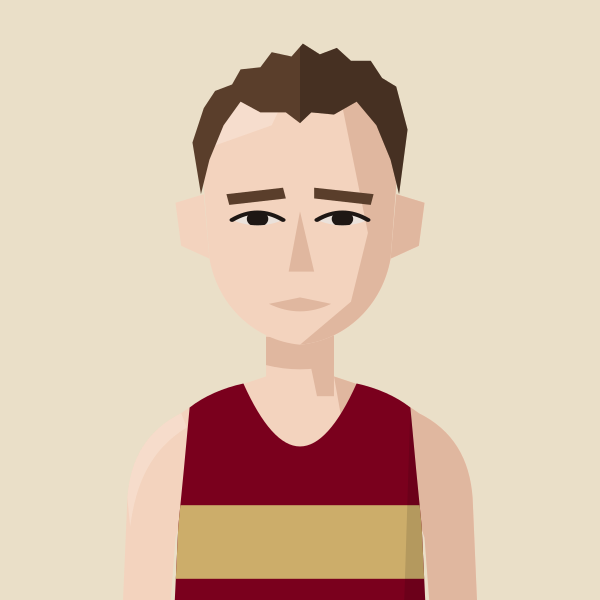
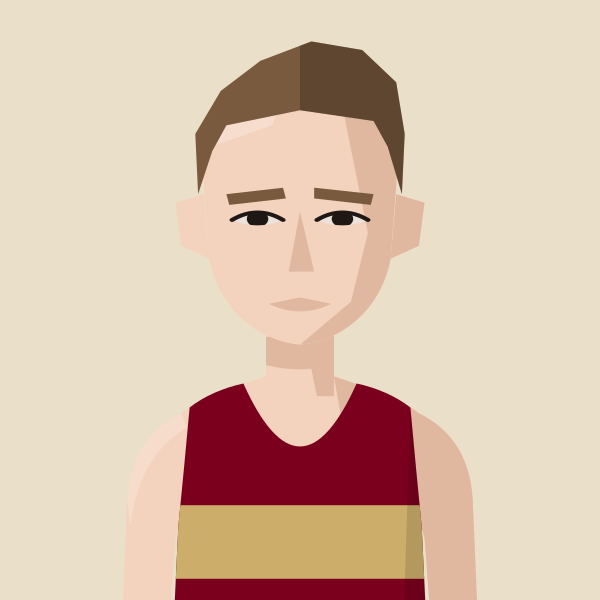
Slimmer rank pills on profiles; Max Heyden quiff, lighter hair
Claude-Session: https://claude.ai/code/session_01MgmDWhFqnSSnP4iBLKXUZC

Changed region(s): [[0.3, 0.06, 0.69, 0.33], [0.51, 0.3, 0.63, 0.36], [0.36, 0.3, 0.48, 0.36]]

diff --git a/files/index.html b/files/index.html
@@ -583,7 +583,7 @@ return m;})();
 const portraitFile=(name,club)=>{const k=normalizeNameForCompare(name||'').replace(/\s*\(([^)]*)\)$/,(m,c)=>CLUBS[c.toUpperCase()]?'':m);const a=PORTRAITS[k];if(a&&a.club===club)return a.file;const b=PORTRAITS[k+'@'+club];return b?b.file:null;};
 // Athlete header figure: superstar portrait if we have one, else a grey runner in the club vest, else the plain vest icon
 // Changes whenever any portrait changes (set by tools/build_og.py), so browsers fetch fresh images instead of old cached ones
-const PORTRAIT_V='1e7bae89';
+const PORTRAIT_V='191defdc';
 const AthletePortrait=({name,club,w,fill,onClick})=>{const[failed,setFailed]=useState(false);const file=portraitFile(name,club);const src=file?`/portraits/athletes/${file}.svg?v=${PORTRAIT_V}`:PORTRAIT_CLUBS.has(club)?`/portraits/clubs/${club.replace(/\//g,'').replace(/&/g,'and')}.svg?v=${PORTRAIT_V}`:null;if(!src||failed)return<div onClick={onClick} className={onClick?'cursor-pointer':''}><ClubShield club={club} size={w}/></div>;const h=Math.round(w*148/126),ih=Math.round(w*1.4);if(fill)return<div onClick={onClick} className="cursor-pointer" style={{alignSelf:'stretch',minHeight:h,aspectRatio:'126 / 148',flexShrink:0,position:'relative',borderRadius:4,overflow:'hidden'}}><img src={src} alt={file?`Portrait of ${name.replace(/\s*\([^)]*\)$/,'')}`:`Runner in ${CLUBS[club]?.name||club} vest`} style={{position:'absolute',top:0,left:0,display:'block',width:'100%',height:'auto'}} onError={()=>setFailed(true)}/></div>;return<div style={{width:w,height:h,borderRadius:4,overflow:'hidden',flexShrink:0}}><img src={src} alt={file?`Portrait of ${name.replace(/\s*\([^)]*\)$/,'')}`:`Runner in ${CLUBS[club]?.name||club} vest`} width={w} height={ih} style={{display:'block',width:w,height:ih}} onError={()=>setFailed(true)}/></div>;};
 const getClubVestSvg=(club)=>{
   const p="M3 0 L6 0 Q7 4 10 5 Q13 4 14 0 L17 0 L17 20 L3 20 Z";
@@ -1573,7 +1573,7 @@ const AthleteDetailView=({athlete,setView,athletes,races,clubMvps,seasonsData,mi
   // Get CMS bio for this athlete
   const athleteBio=getCmsContent(cmsContent,'athlete_bio',athleteData?.name,division);
   
-  return<div className="max-w-5xl mx-auto px-4 py-8"><button onClick={()=>setView({type:'athletes'})} className="flex items-center gap-1 text-sm text-gray-500 hover:text-gray-900 mb-4"><ArrowLeft className="w-4 h-4"/>Back</button><div className="mb-8">{/* Desktop layout */}<div className="hidden md:flex md:gap-5 md:items-stretch mb-4"><AthletePortrait key={athleteData.name} name={athleteData.name} club={athleteData.club} w={184} fill onClick={()=>setView({type:'club',club:athleteData.club})}/><div className="flex flex-col justify-end pb-1"><div className="flex flex-wrap gap-2 mb-2">{allTimeRank>0&&<div className="inline-flex items-center gap-2 bg-gray-100 px-3 py-1.5 rounded-full cursor-pointer hover:bg-gray-200" onClick={()=>setView({type:'athletes'})}><span className="text-xs text-gray-500 uppercase">SL Index 📈</span><span className="text-sm font-bold text-[#1b649e]">#{allTimeRank}</span></div>}{clubRankings.map(cr=><div key={cr.club} className="inline-flex items-center gap-1.5 bg-gray-100 px-3 py-1.5 rounded-full cursor-pointer hover:bg-gray-200" onClick={()=>setView({type:'club',club:cr.club})}><ClubShield club={cr.club} size={14}/><span className="text-xs text-gray-500">🐐</span><span className="text-sm font-bold text-[#1b649e]">#{cr.rank}</span></div>)}</div><div className="flex items-center gap-3"><h1 className="text-4xl font-bold text-gray-900" style={{fontFamily:"'Fraunces',serif"}}>{athleteData.name}</h1>{athleteNee?.[athleteData?.name]&&<p className="text-sm text-gray-500 italic mt-1">({athleteData.name.split(' ')[0]} {athleteNee[athleteData.name]})</p>}</div><div className="flex items-center gap-2 mt-1"><p className="text-sm text-gray-500 cursor-pointer hover:text-[#1b649e]" onClick={()=>setView({type:'club',club:athleteData.club})}>{CLUBS[athleteData.club]?.short?<><span className="lg:hidden">{CLUBS[athleteData.club].short}</span><span className="hidden lg:inline">{CLUBS[athleteData.club].name}</span></>:(CLUBS[athleteData.club]?.name||athleteData.club)}</p>{po10Url&&<a href={po10Url} target="_blank" rel="noopener noreferrer" className="inline-flex items-center gap-1 text-xs text-gray-400 hover:text-[#1b649e]"><span className="lg:hidden">Po10</span><span className="hidden lg:inline">Power of 10</span><svg className="w-3 h-3" fill="none" stroke="currentColor" viewBox="0 0 24 24"><path strokeLinecap="round" strokeLinejoin="round" strokeWidth={2} d="M10 6H6a2 2 0 00-2 2v10a2 2 0 002 2h10a2 2 0 002-2v-4M14 4h6m0 0v6m0-6L10 14"/></svg></a>}</div>{/* Desktop badges */}{(individualChampData.length>0||leagueWinnerData.length>0||otherBadges.length>0)&&<div className="flex flex-wrap gap-2 mt-3">{individualChampData.length>0&&<div className="inline-flex items-center gap-2 bg-gray-100 px-3 py-1.5 rounded-full"><span className="text-xs text-gray-500 uppercase">{individualChampData.length}× Mitchell Cup 🏅</span><span className="text-sm font-medium text-gray-700">{renderYearLinks(individualChampData)}</span></div>}{leagueWinnerData.length>0&&<div className="inline-flex items-center gap-2 bg-gray-100 px-3 py-1.5 rounded-full"><span className="text-xs text-gray-500 uppercase">{leagueWinnerData.length}× League Winner 🏆</span><span className="text-sm font-medium text-gray-700">{renderYearLinks(leagueWinnerData)}</span></div>}{otherBadges.map((b,i)=><div key={i} className="inline-flex items-center gap-2 bg-gray-100 px-3 py-1.5 rounded-full"><span className="text-xs text-gray-500 uppercase">{b.label}</span></div>)}</div>}{/* Athlete bio from CMS */}{athleteBio&&<p className="text-sm text-gray-600 mt-3 max-w-xl"><ParsedContent content={athleteBio} setView={setView}/></p>}{/* Desktop compare */}<div className="mt-3"><div className="relative inline-flex items-center gap-2"><span className="text-xs text-gray-400">Compare to</span><input type="text" value={compareInput} onChange={e=>setCompareInput(e.target.value)} onFocus={()=>setCompareFocused(true)} onBlur={()=>setTimeout(()=>setCompareFocused(false),200)} placeholder="search..." className="w-28 text-sm border-b border-gray-300 focus:border-[#1b649e] outline-none placeholder-gray-300 pb-0.5"/>{compareFocused&&compareInput.length>=2&&(()=>{const suggestions=athletes.filter(a=>!a.historical&&a.name.toLowerCase().includes(compareInput.toLowerCase())&&!namesMatch(a.name,athleteData.name)).slice(0,5);return suggestions.length>0?<div className="absolute top-full left-0 mt-1 bg-white border border-gray-200 rounded-lg shadow-lg z-10 min-w-48">{suggestions.map((a,i)=><div key={i} className="px-3 py-2 hover:bg-gray-50 cursor-pointer flex items-center gap-2 text-sm" onClick={()=>{setView({type:'h2h',prefill:{athlete1:athleteData,athlete2:a}});}}><ClubShield club={a.club} size={14}/><span>{a.name}</span></div>)}</div>:null;})()}</div></div></div></div>{/* Mobile layout */}<div className="md:hidden"><div className="flex items-end gap-3 mb-3"><div className="cursor-pointer" onClick={()=>setView({type:'club',club:athleteData.club})}><AthletePortrait key={athleteData.name} name={athleteData.name} club={athleteData.club} w={84}/></div><div><div className="flex flex-wrap gap-1.5 mb-2">{allTimeRank>0&&<div className="inline-flex items-center gap-2 bg-gray-100 px-2.5 py-1 rounded-full cursor-pointer hover:bg-gray-200" onClick={()=>setView({type:'athletes'})}><span className="text-xs text-gray-500 uppercase">SL Index 📈</span><span className="text-sm font-bold text-[#1b649e]">#{allTimeRank}</span></div>}{clubRankings.map(cr=><div key={cr.club} className="inline-flex items-center gap-1.5 bg-gray-100 px-2.5 py-1 rounded-full cursor-pointer hover:bg-gray-200" onClick={()=>setView({type:'club',club:cr.club})}><ClubShield club={cr.club} size={14}/><span className="text-xs text-gray-500">🐐</span><span className="text-sm font-bold text-[#1b649e]">#{cr.rank}</span></div>)}</div><h1 className="text-2xl font-bold text-gray-900" style={{fontFamily:"'Fraunces',serif"}}>{athleteData.name}</h1>{athleteNee?.[athleteData?.name]&&<p className="text-xs text-gray-500 italic">({athleteData.name.split(' ')[0]} {athleteNee[athleteData.name]})</p>}<div className="flex items-center gap-2"><p className="text-sm text-gray-500 cursor-pointer hover:text-[#1b649e]" onClick={()=>setView({type:'club',club:athleteData.club})}>{CLUBS[athleteData.club]?.short?<><span className="lg:hidden">{CLUBS[athleteData.club].short}</span><span className="hidden lg:inline">{CLUBS[athleteData.club].name}</span></>:(CLUBS[athleteData.club]?.name||athleteData.club)}</p>{po10Url&&<a href={po10Url} target="_blank" rel="noopener noreferrer" className="inline-flex items-center gap-1 text-xs text-gray-400 hover:text-[#1b649e]"><span className="lg:hidden">Po10</span><span className="hidden lg:inline">Power of 10</span><svg className="w-3 h-3" fill="none" stroke="currentColor" viewBox="0 0 24 24"><path strokeLinecap="round" strokeLinejoin="round" strokeWidth={2} d="M10 6H6a2 2 0 00-2 2v10a2 2 0 002 2h10a2 2 0 002-2v-4M14 4h6m0 0v6m0-6L10 14"/></svg></a>}</div></div></div>{(individualChampData.length>0||leagueWinnerData.length>0||otherBadges.length>0)&&<div className="flex flex-wrap gap-2 mt-2">{otherBadges.map((b,i)=><div key={i} className="inline-flex items-center gap-2 bg-gray-100 px-3 py-1.5 rounded-full"><span className="text-xs text-gray-500 uppercase">{b.label}</span></div>)}{individualChampData.length>0&&<div className="inline-flex items-center gap-2 bg-gray-100 px-3 py-1.5 rounded-full"><span className="text-xs text-gray-500 uppercase">{individualChampData.length}× Mitchell Cup 🏅</span><span className="text-sm font-medium text-gray-700">{renderYearLinks(individualChampData)}</span></div>}{leagueWinnerData.length>0&&<div className="inline-flex items-center gap-2 bg-gray-100 px-3 py-1.5 rounded-full"><span className="text-xs text-gray-500 uppercase">{leagueWinnerData.length}× League Winner 🏆</span><span className="text-sm font-medium text-gray-700">{renderYearLinks(leagueWinnerData)}</span></div>}</div>}{/* Mobile athlete bio */}{athleteBio&&<p className="text-sm text-gray-600 mt-3"><ParsedContent content={athleteBio} setView={setView}/></p>}{/* Mobile compare */}<div className="mt-3"><div className="relative inline-flex items-center gap-2"><span className="text-xs text-gray-400">Compare to</span><input type="text" value={compareInput} onChange={e=>setCompareInput(e.target.value)} onFocus={()=>setCompareFocused(true)} onBlur={()=>setTimeout(()=>setCompareFocused(false),200)} placeholder="search..." className="w-28 text-sm border-b border-gray-300 focus:border-[#1b649e] outline-none placeholder-gray-300 pb-0.5"/>{compareFocused&&compareInput.length>=2&&(()=>{const suggestions=athletes.filter(a=>!a.historical&&a.name.toLowerCase().includes(compareInput.toLowerCase())&&!namesMatch(a.name,athleteData.name)).slice(0,5);return suggestions.length>0?<div className="absolute top-full left-0 mt-1 bg-white border border-gray-200 rounded-lg shadow-lg z-10 min-w-48">{suggestions.map((a,i)=><div key={i} className="px-3 py-2 hover:bg-gray-50 cursor-pointer flex items-center gap-2 text-sm" onClick={()=>{setView({type:'h2h',prefill:{athlete1:athleteData,athlete2:a}});}}><ClubShield club={a.club} size={14}/><span>{a.name}</span></div>)}</div>:null;})()}</div></div></div></div><StatsTable stats={computedStats}/><div>{raceHistory.length>0?<><div className="max-w-3xl"><PositionChart raceHistory={raceHistory} highlightIdx={highlightIdx} setHighlightIdx={setHighlightIdx} setView={setView} clubCode={athleteData.club}/></div><table className="w-full text-sm max-w-3xl"><thead><tr className="border-b border-gray-200"><th colSpan="2" className="text-left py-2 pr-2 text-xs text-gray-500 uppercase">Race History</th><th className="text-center py-2 px-1 text-[10px] md:text-xs text-gray-500 uppercase">Club</th><th className="text-right py-2 px-1 text-[10px] md:text-xs text-gray-500 uppercase">Pos</th><th className="text-right py-2 pl-1 text-[10px] md:text-xs text-gray-500 uppercase">Score</th></tr></thead><tbody className="divide-y divide-gray-100">{raceHistory.map((r,i)=>{const scoreNum=r.teamScore?parseInt(r.teamScore.slice(1)):0;const ordinal=scoreNum===1?'st':scoreNum===2?'nd':scoreNum===3?'rd':'th';const scoreTooltip=r.teamScore?`${CLUBS[r.club]?.name||r.club}'s ${scoreNum}${ordinal} scorer for ${r.teamScore[0]} team`:null;const dateObj=r.hasFullDate&&r.date?parseDate(r.date):null;const formatSeasonMatch=(season,match)=>{const months=['Oct','Nov','Jan','Feb'];const p=season.split('/');if(p.length!==2||!match)return season;const y1=parseInt(p[0]),m=months[match-1]||'';return m?m+" '"+(match>=4?String(y1+1).slice(-2):String(y1).slice(-2)):season;};const displayDate=dateObj?dateObj.toLocaleDateString('en-GB',{month:'short'})+" '"+dateObj.getFullYear().toString().slice(-2):formatSeasonMatch(r.season,r.race?.match);const isHighlighted=highlightIdx?.historyIdx===i;return<tr key={i} className={`${isHighlighted?'bg-gray-100':''} ${r.race?.results?.length?'hover:bg-gray-100 cursor-pointer':''} transition-colors`} onClick={()=>r.race?.results?.length&&setView({type:'race',race:r.race})}><td className="py-2 pr-2 text-xs text-gray-400 whitespace-nowrap">{displayDate}</td><td className="py-2 px-1 text-xs md:text-sm text-gray-900"><VenueName venue={r.venue}/></td><td className="py-2 px-1"><div className="flex justify-center"><ClubShield club={r.club} size={14}/></div></td><td className="py-2 px-1 text-right"><span className={`text-xs md:text-sm font-medium tabular-nums ${getNumericPos(r.pos)===1?'text-[#1b649e]':getNumericPos(r.pos)<=3?'text-gray-900':'text-gray-600'}`}>{(()=>{const numPos=getNumericPos(r.pos);return numPos===1?'🥇':numPos===2?'🥈':numPos===3?'🥉':numPos;})()}{showStar&&getNumericPos(r.pos)===bestPos&&' ⭐'}</span></td><td className="py-2 pl-1 text-xs md:text-sm text-gray-600 text-right tabular-nums font-mono" title={scoreTooltip}>{r.teamScore||'-'}</td></tr>})}</tbody></table></>:<p className="text-sm text-gray-500">No race history</p>}</div></div>;
+  return<div className="max-w-5xl mx-auto px-4 py-8"><button onClick={()=>setView({type:'athletes'})} className="flex items-center gap-1 text-sm text-gray-500 hover:text-gray-900 mb-4"><ArrowLeft className="w-4 h-4"/>Back</button><div className="mb-8">{/* Desktop layout */}<div className="hidden md:flex md:gap-5 md:items-stretch mb-4"><AthletePortrait key={athleteData.name} name={athleteData.name} club={athleteData.club} w={184} fill onClick={()=>setView({type:'club',club:athleteData.club})}/><div className="flex flex-col justify-end pb-1"><div className="flex flex-wrap gap-2 mb-2">{allTimeRank>0&&<div className="inline-flex items-center gap-1 bg-gray-100 px-2 py-0.5 rounded-full cursor-pointer hover:bg-gray-200" onClick={()=>setView({type:'athletes'})}><span className="text-[10px] text-gray-500 uppercase tracking-wide">SL Index 📈</span><span className="text-xs font-semibold text-[#1b649e] tabular-nums">#{allTimeRank}</span></div>}{clubRankings.map(cr=><div key={cr.club} className="inline-flex items-center gap-1 bg-gray-100 px-2 py-0.5 rounded-full cursor-pointer hover:bg-gray-200" onClick={()=>setView({type:'club',club:cr.club})}><ClubShield club={cr.club} size={12}/><span className="text-[10px] text-gray-500">🐐</span><span className="text-xs font-semibold text-[#1b649e] tabular-nums">#{cr.rank}</span></div>)}</div><div className="flex items-center gap-3"><h1 className="text-4xl font-bold text-gray-900" style={{fontFamily:"'Fraunces',serif"}}>{athleteData.name}</h1>{athleteNee?.[athleteData?.name]&&<p className="text-sm text-gray-500 italic mt-1">({athleteData.name.split(' ')[0]} {athleteNee[athleteData.name]})</p>}</div><div className="flex items-center gap-2 mt-1"><p className="text-sm text-gray-500 cursor-pointer hover:text-[#1b649e]" onClick={()=>setView({type:'club',club:athleteData.club})}>{CLUBS[athleteData.club]?.short?<><span className="lg:hidden">{CLUBS[athleteData.club].short}</span><span className="hidden lg:inline">{CLUBS[athleteData.club].name}</span></>:(CLUBS[athleteData.club]?.name||athleteData.club)}</p>{po10Url&&<a href={po10Url} target="_blank" rel="noopener noreferrer" className="inline-flex items-center gap-1 text-xs text-gray-400 hover:text-[#1b649e]"><span className="lg:hidden">Po10</span><span className="hidden lg:inline">Power of 10</span><svg className="w-3 h-3" fill="none" stroke="currentColor" viewBox="0 0 24 24"><path strokeLinecap="round" strokeLinejoin="round" strokeWidth={2} d="M10 6H6a2 2 0 00-2 2v10a2 2 0 002 2h10a2 2 0 002-2v-4M14 4h6m0 0v6m0-6L10 14"/></svg></a>}</div>{/* Desktop badges */}{(individualChampData.length>0||leagueWinnerData.length>0||otherBadges.length>0)&&<div className="flex flex-wrap gap-2 mt-3">{individualChampData.length>0&&<div className="inline-flex items-center gap-2 bg-gray-100 px-3 py-1.5 rounded-full"><span className="text-xs text-gray-500 uppercase">{individualChampData.length}× Mitchell Cup 🏅</span><span className="text-sm font-medium text-gray-700">{renderYearLinks(individualChampData)}</span></div>}{leagueWinnerData.length>0&&<div className="inline-flex items-center gap-2 bg-gray-100 px-3 py-1.5 rounded-full"><span className="text-xs text-gray-500 uppercase">{leagueWinnerData.length}× League Winner 🏆</span><span className="text-sm font-medium text-gray-700">{renderYearLinks(leagueWinnerData)}</span></div>}{otherBadges.map((b,i)=><div key={i} className="inline-flex items-center gap-2 bg-gray-100 px-3 py-1.5 rounded-full"><span className="text-xs text-gray-500 uppercase">{b.label}</span></div>)}</div>}{/* Athlete bio from CMS */}{athleteBio&&<p className="text-sm text-gray-600 mt-3 max-w-xl"><ParsedContent content={athleteBio} setView={setView}/></p>}{/* Desktop compare */}<div className="mt-3"><div className="relative inline-flex items-center gap-2"><span className="text-xs text-gray-400">Compare to</span><input type="text" value={compareInput} onChange={e=>setCompareInput(e.target.value)} onFocus={()=>setCompareFocused(true)} onBlur={()=>setTimeout(()=>setCompareFocused(false),200)} placeholder="search..." className="w-28 text-sm border-b border-gray-300 focus:border-[#1b649e] outline-none placeholder-gray-300 pb-0.5"/>{compareFocused&&compareInput.length>=2&&(()=>{const suggestions=athletes.filter(a=>!a.historical&&a.name.toLowerCase().includes(compareInput.toLowerCase())&&!namesMatch(a.name,athleteData.name)).slice(0,5);return suggestions.length>0?<div className="absolute top-full left-0 mt-1 bg-white border border-gray-200 rounded-lg shadow-lg z-10 min-w-48">{suggestions.map((a,i)=><div key={i} className="px-3 py-2 hover:bg-gray-50 cursor-pointer flex items-center gap-2 text-sm" onClick={()=>{setView({type:'h2h',prefill:{athlete1:athleteData,athlete2:a}});}}><ClubShield club={a.club} size={14}/><span>{a.name}</span></div>)}</div>:null;})()}</div></div></div></div>{/* Mobile layout */}<div className="md:hidden"><div className="flex items-end gap-3 mb-3"><div className="cursor-pointer" onClick={()=>setView({type:'club',club:athleteData.club})}><AthletePortrait key={athleteData.name} name={athleteData.name} club={athleteData.club} w={84}/></div><div><div className="flex flex-wrap gap-1.5 mb-2">{allTimeRank>0&&<div className="inline-flex items-center gap-1 bg-gray-100 px-2 py-0.5 rounded-full cursor-pointer hover:bg-gray-200" onClick={()=>setView({type:'athletes'})}><span className="text-[10px] text-gray-500 uppercase tracking-wide">SL Index 📈</span><span className="text-xs font-semibold text-[#1b649e] tabular-nums">#{allTimeRank}</span></div>}{clubRankings.map(cr=><div key={cr.club} className="inline-flex items-center gap-1 bg-gray-100 px-2 py-0.5 rounded-full cursor-pointer hover:bg-gray-200" onClick={()=>setView({type:'club',club:cr.club})}><ClubShield club={cr.club} size={12}/><span className="text-[10px] text-gray-500">🐐</span><span className="text-xs font-semibold text-[#1b649e] tabular-nums">#{cr.rank}</span></div>)}</div><h1 className="text-2xl font-bold text-gray-900" style={{fontFamily:"'Fraunces',serif"}}>{athleteData.name}</h1>{athleteNee?.[athleteData?.name]&&<p className="text-xs text-gray-500 italic">({athleteData.name.split(' ')[0]} {athleteNee[athleteData.name]})</p>}<div className="flex items-center gap-2"><p className="text-sm text-gray-500 cursor-pointer hover:text-[#1b649e]" onClick={()=>setView({type:'club',club:athleteData.club})}>{CLUBS[athleteData.club]?.short?<><span className="lg:hidden">{CLUBS[athleteData.club].short}</span><span className="hidden lg:inline">{CLUBS[athleteData.club].name}</span></>:(CLUBS[athleteData.club]?.name||athleteData.club)}</p>{po10Url&&<a href={po10Url} target="_blank" rel="noopener noreferrer" className="inline-flex items-center gap-1 text-xs text-gray-400 hover:text-[#1b649e]"><span className="lg:hidden">Po10</span><span className="hidden lg:inline">Power of 10</span><svg className="w-3 h-3" fill="none" stroke="currentColor" viewBox="0 0 24 24"><path strokeLinecap="round" strokeLinejoin="round" strokeWidth={2} d="M10 6H6a2 2 0 00-2 2v10a2 2 0 002 2h10a2 2 0 002-2v-4M14 4h6m0 0v6m0-6L10 14"/></svg></a>}</div></div></div>{(individualChampData.length>0||leagueWinnerData.length>0||otherBadges.length>0)&&<div className="flex flex-wrap gap-2 mt-2">{otherBadges.map((b,i)=><div key={i} className="inline-flex items-center gap-2 bg-gray-100 px-3 py-1.5 rounded-full"><span className="text-xs text-gray-500 uppercase">{b.label}</span></div>)}{individualChampData.length>0&&<div className="inline-flex items-center gap-2 bg-gray-100 px-3 py-1.5 rounded-full"><span className="text-xs text-gray-500 uppercase">{individualChampData.length}× Mitchell Cup 🏅</span><span className="text-sm font-medium text-gray-700">{renderYearLinks(individualChampData)}</span></div>}{leagueWinnerData.length>0&&<div className="inline-flex items-center gap-2 bg-gray-100 px-3 py-1.5 rounded-full"><span className="text-xs text-gray-500 uppercase">{leagueWinnerData.length}× League Winner 🏆</span><span className="text-sm font-medium text-gray-700">{renderYearLinks(leagueWinnerData)}</span></div>}</div>}{/* Mobile athlete bio */}{athleteBio&&<p className="text-sm text-gray-600 mt-3"><ParsedContent content={athleteBio} setView={setView}/></p>}{/* Mobile compare */}<div className="mt-3"><div className="relative inline-flex items-center gap-2"><span className="text-xs text-gray-400">Compare to</span><input type="text" value={compareInput} onChange={e=>setCompareInput(e.target.value)} onFocus={()=>setCompareFocused(true)} onBlur={()=>setTimeout(()=>setCompareFocused(false),200)} placeholder="search..." className="w-28 text-sm border-b border-gray-300 focus:border-[#1b649e] outline-none placeholder-gray-300 pb-0.5"/>{compareFocused&&compareInput.length>=2&&(()=>{const suggestions=athletes.filter(a=>!a.historical&&a.name.toLowerCase().includes(compareInput.toLowerCase())&&!namesMatch(a.name,athleteData.name)).slice(0,5);return suggestions.length>0?<div className="absolute top-full left-0 mt-1 bg-white border border-gray-200 rounded-lg shadow-lg z-10 min-w-48">{suggestions.map((a,i)=><div key={i} className="px-3 py-2 hover:bg-gray-50 cursor-pointer flex items-center gap-2 text-sm" onClick={()=>{setView({type:'h2h',prefill:{athlete1:athleteData,athlete2:a}});}}><ClubShield club={a.club} size={14}/><span>{a.name}</span></div>)}</div>:null;})()}</div></div></div></div><StatsTable stats={computedStats}/><div>{raceHistory.length>0?<><div className="max-w-3xl"><PositionChart raceHistory={raceHistory} highlightIdx={highlightIdx} setHighlightIdx={setHighlightIdx} setView={setView} clubCode={athleteData.club}/></div><table className="w-full text-sm max-w-3xl"><thead><tr className="border-b border-gray-200"><th colSpan="2" className="text-left py-2 pr-2 text-xs text-gray-500 uppercase">Race History</th><th className="text-center py-2 px-1 text-[10px] md:text-xs text-gray-500 uppercase">Club</th><th className="text-right py-2 px-1 text-[10px] md:text-xs text-gray-500 uppercase">Pos</th><th className="text-right py-2 pl-1 text-[10px] md:text-xs text-gray-500 uppercase">Score</th></tr></thead><tbody className="divide-y divide-gray-100">{raceHistory.map((r,i)=>{const scoreNum=r.teamScore?parseInt(r.teamScore.slice(1)):0;const ordinal=scoreNum===1?'st':scoreNum===2?'nd':scoreNum===3?'rd':'th';const scoreTooltip=r.teamScore?`${CLUBS[r.club]?.name||r.club}'s ${scoreNum}${ordinal} scorer for ${r.teamScore[0]} team`:null;const dateObj=r.hasFullDate&&r.date?parseDate(r.date):null;const formatSeasonMatch=(season,match)=>{const months=['Oct','Nov','Jan','Feb'];const p=season.split('/');if(p.length!==2||!match)return season;const y1=parseInt(p[0]),m=months[match-1]||'';return m?m+" '"+(match>=4?String(y1+1).slice(-2):String(y1).slice(-2)):season;};const displayDate=dateObj?dateObj.toLocaleDateString('en-GB',{month:'short'})+" '"+dateObj.getFullYear().toString().slice(-2):formatSeasonMatch(r.season,r.race?.match);const isHighlighted=highlightIdx?.historyIdx===i;return<tr key={i} className={`${isHighlighted?'bg-gray-100':''} ${r.race?.results?.length?'hover:bg-gray-100 cursor-pointer':''} transition-colors`} onClick={()=>r.race?.results?.length&&setView({type:'race',race:r.race})}><td className="py-2 pr-2 text-xs text-gray-400 whitespace-nowrap">{displayDate}</td><td className="py-2 px-1 text-xs md:text-sm text-gray-900"><VenueName venue={r.venue}/></td><td className="py-2 px-1"><div className="flex justify-center"><ClubShield club={r.club} size={14}/></div></td><td className="py-2 px-1 text-right"><span className={`text-xs md:text-sm font-medium tabular-nums ${getNumericPos(r.pos)===1?'text-[#1b649e]':getNumericPos(r.pos)<=3?'text-gray-900':'text-gray-600'}`}>{(()=>{const numPos=getNumericPos(r.pos);return numPos===1?'🥇':numPos===2?'🥈':numPos===3?'🥉':numPos;})()}{showStar&&getNumericPos(r.pos)===bestPos&&' ⭐'}</span></td><td className="py-2 pl-1 text-xs md:text-sm text-gray-600 text-right tabular-nums font-mono" title={scoreTooltip}>{r.teamScore||'-'}</td></tr>})}</tbody></table></>:<p className="text-sm text-gray-500">No race history</p>}</div></div>;
 };
 
 const ChartRoomView=({setView,data,menData,womenData})=>{

diff --git a/tools/gen_portraits.py b/tools/gen_portraits.py
@@ -693,7 +693,7 @@ save("george-cotton", figure("WOK", skin=1, hair="tousled", hair_colour="#6E4E33
 save("cameron-reilly", figure("G&G", skin=1, hair="messyfringe", hair_colour="#8A6440"))
 save("jack-dormer", figure("WOK", skin=1, hair="messyvolume", hair_colour="#86603E"))
 save("lea-adamson", figure("BEL", skin=1, hair="wavytie", hair_colour="#5E3A26", necklace="#D4D4D4"))
-save("max-heyden", figure("BEL", skin=1, hair="shortcurls", hair_colour="#5A3E2B"))
+save("max-heyden", figure("BEL", skin=1, hair="quiff", hair_colour="#7A5A3E"))
 save("ian-crowe-wright", figure("BEL", skin=1, hair="tousled", hair_colour="#7E5E40"))
 save("neil-wilson", figure("BEL", skin=1, hair="tuftrecede", hair_colour="#86664A", necklace="#CFCFCF", thin_brows=True))
 save("lloyd-kempson", figure("BEL", skin=1, hair="quiff", hair_colour="#8A6A48", facial="stubble", facial_colour="#8A6A48", shades=True, shades_col="#1A1A1A", shades_frame="#2A2A2A", necklace="#C9A646"))
